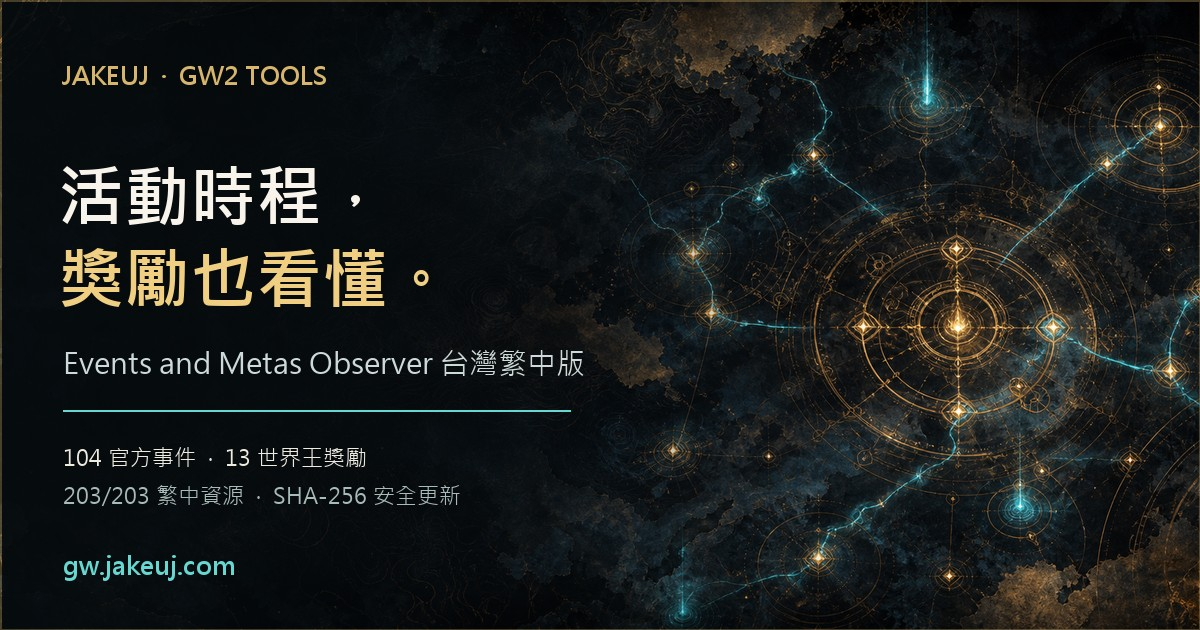
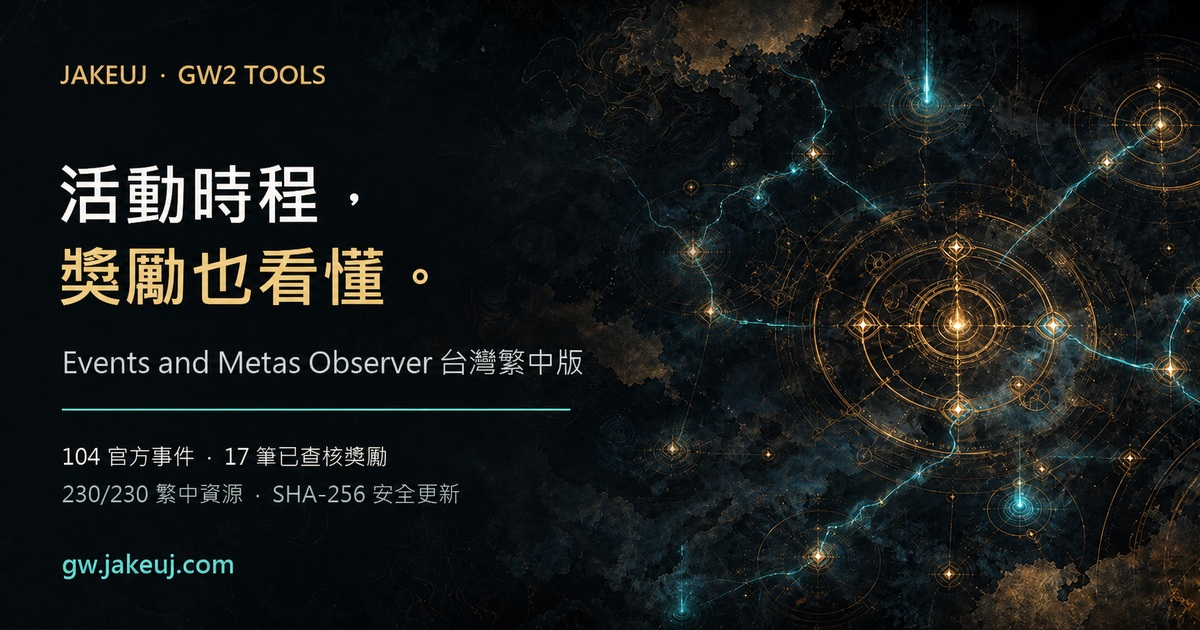
docs(events): update site for fork.6

diff --git a/docs/index.html b/docs/index.html
@@ -3,7 +3,7 @@
   <head>
     <meta charset="utf-8">
     <meta name="viewport" content="width=device-width, initial-scale=1">
-    <meta name="description" content="jakeuj 維護的 GW2 Events and Metas Observer 台灣繁中版：官方 Wiki 活動時程、雙語事件名稱、13 隻世界王獎勵、離線備援與 SHA-256 安全自動更新。">
+    <meta name="description" content="jakeuj 維護的 GW2 Events and Metas Observer 台灣繁中版：官方 Wiki 活動時程、雙語事件名稱、17 筆已查核獎勵、自訂聊天訊息、離線備援與 SHA-256 安全自動更新。">
     <meta name="author" content="jakeuj">
     <meta name="robots" content="index,follow,max-image-preview:large">
     <meta name="theme-color" content="#090e11">
@@ -15,15 +15,15 @@
     <meta property="og:type" content="website">
     <meta property="og:site_name" content="jakeuj GW2 Tools">
     <meta property="og:title" content="活動時程，獎勵也看懂｜GW2 Events 繁中版">
-    <meta property="og:description" content="不只是翻譯：官方 Wiki 資料管線、離線備援、世界王獎勵與 SHA-256 安全更新。">
+    <meta property="og:description" content="不只是翻譯：官方 Wiki 資料管線、17 筆已查核獎勵、自訂聊天訊息、離線備援與 SHA-256 安全更新。">
     <meta property="og:url" content="https://gw.jakeuj.com/">
     <meta property="og:image" content="https://gw.jakeuj.com/assets/jakeuj-gw2-tools-og.jpg">
     <meta property="og:image:width" content="1200">
     <meta property="og:image:height" content="630">
-    <meta property="og:image:alt" content="jakeuj GW2 Tools：活動時程，獎勵也看懂；104 個官方事件、13 隻世界王獎勵與 203 項繁中資源">
+    <meta property="og:image:alt" content="jakeuj GW2 Tools：活動時程，獎勵也看懂；104 個官方事件、17 筆已查核獎勵與 230 項繁中資源">
     <meta name="twitter:card" content="summary_large_image">
     <meta name="twitter:title" content="活動時程，獎勵也看懂｜GW2 Events 繁中版">
-    <meta name="twitter:description" content="jakeuj 維護的 Events and Metas Observer 台灣繁中版與工程案例。">
+    <meta name="twitter:description" content="Events and Metas Observer 台灣繁中版：17 筆已查核獎勵、自訂聊天訊息與安全更新。">
     <meta name="twitter:image" content="https://gw.jakeuj.com/assets/jakeuj-gw2-tools-og.jpg">
     <title>GW2 Events and Metas Observer 繁中版｜jakeuj GW2 Tools</title>
     <link rel="stylesheet" href="./styles.css">
@@ -36,8 +36,8 @@
             "name": "Events and Metas Observer 台灣繁中版",
             "applicationCategory": "GameApplication",
             "operatingSystem": "Windows",
-            "softwareVersion": "1.0.9-fork.5",
-            "description": "Guild Wars 2 的 Blish HUD 活動時程與通知模組，提供繁中介面、雙語事件名稱、世界王獎勵與安全自動更新。",
+            "softwareVersion": "1.0.9-fork.6",
+            "description": "Guild Wars 2 的 Blish HUD 活動時程與通知模組，提供繁中介面、雙語事件名稱、17 筆已查核獎勵、自訂聊天訊息與安全自動更新。",
             "downloadUrl": "https://github.com/jakeuj/Community-Module-Pack/releases/latest/download/Events.Module.bhm",
             "isAccessibleForFree": true,
             "author": { "@type": "Person", "name": "jakeuj", "url": "https://github.com/jakeuj" }
@@ -84,16 +84,16 @@
           <div class="hero-copy reveal">
             <p class="eyebrow">Guild Wars 2 · Blish HUD Module</p>
             <div class="hero-meta">
-              <span class="status-pill" id="release-status" data-fallback-version="1.0.9-fork.5">
+              <span class="status-pill" id="release-status" data-fallback-version="1.0.9-fork.6">
                 <i aria-hidden="true"></i>
-                <span data-release-version>v1.0.9-fork.5</span>
+                <span data-release-version>v1.0.9-fork.6</span>
                 <span class="status-copy">穩定版自動更新</span>
               </span>
               <a class="maker-link" href="https://github.com/jakeuj">Built &amp; maintained by <strong>jakeuj</strong></a>
             </div>
             <h1 id="page-title">活動時程，<br><em>獎勵也看懂。</em></h1>
             <p class="lead">
-              不只是翻譯。繁中與官方英文名稱、13 隻核心世界王獎勵、官方 Wiki 即時時程、離線備援與安全更新，都整理在同一個可靠的 Blish HUD 模組裡。
+              不只是翻譯。繁中與官方英文名稱、17 筆已查核事件獎勵、自訂聊天訊息、官方 Wiki 即時時程、離線備援與安全更新，都整理在同一個可靠的 Blish HUD 模組裡。
             </p>
             <div class="actions" aria-label="主要操作">
               <a class="button primary" href="https://github.com/jakeuj/Community-Module-Pack/releases/latest/download/Events.Module.bhm">下載最新版 <span aria-hidden="true">↓</span></a>
@@ -102,10 +102,10 @@
             </div>
             <p class="download-note">Windows · 需要支援中文的 Blish HUD 1.0.0 以上 · 免費開源</p>
             <dl class="quick-stats" aria-label="已驗證的專案數據">
-              <div><dt><span data-count="203" data-suffix="/203">203/203</span></dt><dd>繁中資源</dd></div>
+              <div><dt><span data-count="230" data-suffix="/230">230/230</span></dt><dd>繁中資源</dd></div>
               <div><dt><span data-count="104">104</span></dt><dd>官方事件</dd></div>
-              <div><dt><span data-count="13">13</span></dt><dd>世界王獎勵</dd></div>
-              <div><dt><span data-count="5">5</span></dt><dd>Fork 迭代</dd></div>
+              <div><dt><span data-count="17">17</span></dt><dd>已查核獎勵</dd></div>
+              <div><dt><span data-count="6">6</span></dt><dd>Fork 迭代</dd></div>
             </dl>
           </div>
 
@@ -132,7 +132,7 @@
               </picture>
               <figcaption>
                 <span><strong>實機畫面</strong> · 雙語名稱與世界王獎勵</span>
-                <span class="verified-badge"><i aria-hidden="true"></i>13 筆已查核</span>
+                <span class="verified-badge"><i aria-hidden="true"></i>17 筆已查核</span>
               </figcaption>
             </figure>
           </div>
@@ -172,7 +172,7 @@
 
         <div class="evidence-grid">
           <a class="evidence-card spotlight reveal" href="https://github.com/jakeuj/Community-Module-Pack/blob/master/Events%20Module/Properties/Resources.zh.resx">
-            <span>203 / 203</span><strong>台灣繁中資源完整覆蓋</strong><small>查看 Resources.zh.resx ↗</small>
+            <span>230 / 230</span><strong>台灣繁中資源完整覆蓋</strong><small>查看 Resources.zh.resx ↗</small>
           </a>
           <a class="evidence-card spotlight reveal" data-reveal-delay="70" href="https://github.com/jakeuj/Community-Module-Pack/tree/master/Events%20Module/Tests">
             <span>Parser + Live Audit</span><strong>官方事件、圖示與獎勵測試</strong><small>查看 Tests ↗</small>
@@ -190,10 +190,10 @@
         <div class="shell">
           <div class="section-heading compact reveal">
             <p class="eyebrow">Fork Evolution · 2026</p>
-            <h2 id="evolution-title">五次迭代，把社群翻譯做成可維護的產品。</h2>
+            <h2 id="evolution-title">六次迭代，把社群翻譯做成可維護的產品。</h2>
             <p>每一步都有對應的 Release 與原始碼，不用模糊的「最佳化」包裝成果。</p>
           </div>
-          <ol class="fork-timeline" aria-label="fork.1 到 fork.5 的版本演進">
+          <ol class="fork-timeline" aria-label="fork.1 到 fork.6 的版本演進">
             <li class="timeline-item reveal">
               <span class="timeline-version">fork.1</span><span class="timeline-dot" aria-hidden="true"></span>
               <div><p class="timeline-kicker">Foundation</p><h3>繁中術語與發布自動化</h3><p>建立台灣繁中交付流程、fork 版號規則與自動產生後再清理的 Release notes。</p></div>
@@ -214,6 +214,10 @@
               <span class="timeline-version">fork.5</span><span class="timeline-dot" aria-hidden="true"></span>
               <div><p class="timeline-kicker">Safe Delivery</p><h3>SHA-256 安全自動更新</h3><p>只接受格式正確的穩定版、可信 GitHub 資產與摘要；成功安裝後才保留設定並重新啟動。</p></div>
             </li>
+            <li class="timeline-item reveal">
+              <span class="timeline-version">fork.6</span><span class="timeline-dot" aria-hidden="true"></span>
+              <div><p class="timeline-kicker">Player Communication</p><h3>獎勵、聊天與 Wiki 一次補齊</h3><p>加入 4 個大型公共活動的已查核獎勵與自訂聊天訊息，並修復含冒號匯聚頁面的 Wiki 按鈕。</p></div>
+            </li>
           </ol>
         </div>
       </section>
@@ -226,14 +230,15 @@
         </div>
         <div class="feature-grid">
           <article class="feature-card spotlight reveal"><span>01</span><h3>繁中＋官方英文</h3><p>卡片以繁中為主、英文原名為輔；搜尋同時支援繁中、英文與既有別名。</p></article>
-          <article class="feature-card spotlight reveal" data-reveal-delay="80"><span>02</span><h3>世界王獎勵資訊</h3><p>13 隻核心世界王顯示保底裝備、龍晶礦，以及帳號／角色每日限制。</p></article>
+          <article class="feature-card spotlight reveal" data-reveal-delay="80"><span>02</span><h3>17 筆已查核獎勵</h3><p>涵蓋 13 隻核心世界王與 4 個大型公共活動，標示保底裝備、龍晶礦、固定金幣與每日限制。</p></article>
           <article class="feature-card spotlight reveal" data-reveal-delay="160"><span>03</span><h3>官方時程與離線備援</h3><p>官方資料成功才更新；無法連線時依序使用成功快取與內建資料。</p></article>
+          <article class="feature-card spotlight reveal" data-reveal-delay="240"><span>04</span><h3>自訂聊天訊息</h3><p>以安全模板組合傳送點、雙語事件、分類、時間與已查核獎勵；格式失效時自動退回原始座標。</p></article>
         </div>
       </section>
 
       <section class="section update-section shell" aria-labelledby="update-title">
         <div class="update-copy reveal">
-          <p class="eyebrow">fork.5 · Verified Update</p>
+          <p class="eyebrow">fork.5+ · Verified Update</p>
           <h2 id="update-title">手動更新這一次，<br><em>之後穩定版安全跟上。</em></h2>
           <p>每次載入在背景檢查最新穩定版。Release tag、資產名稱、可信網址與 SHA-256 全部通過後才會安裝；任何失敗都繼續使用原版本。</p>
           <ul class="check-list">
@@ -241,7 +246,7 @@
             <li><span aria-hidden="true">✓</span><div><strong>只跟隨正式穩定版</strong><p>測試版、預發行版、格式錯誤與降版都會拒絕。</p></div></li>
             <li><span aria-hidden="true">✓</span><div><strong>驗證成功才重新啟動</strong><p>保留模組啟用狀態，下載或驗證失敗時不動目前檔案。</p></div></li>
           </ul>
-          <div class="notice"><strong>第一次仍需手動安裝 fork.5</strong><p>更舊版本尚未內建更新器；安裝含更新器的版本後，後續合規穩定版才會自動跟上。</p></div>
+          <div class="notice"><strong>fork.5 以前的版本需手動安裝最新版</strong><p>fork.5 已能安全自動更新到 fork.6；更舊版本手動安裝 fork.6 一次後，後續合規穩定版即可自動跟上。</p></div>
         </div>
         <figure class="update-shot tilt-card reveal" data-tilt data-reveal-delay="120">
           <picture>
@@ -313,7 +318,7 @@
 
       <section class="release-cta shell reveal" aria-labelledby="download-title">
         <div class="release-sigil" aria-hidden="true"><span></span></div>
-        <div><p class="eyebrow">Stable Release</p><h2 id="download-title"><span data-release-version>v1.0.9-fork.5</span> 已發布</h2><p>這是第一個含安全更新器的版本；手動安裝一次後，後續穩定版即可自動跟上。</p></div>
+        <div><p class="eyebrow">Stable Release</p><h2 id="download-title"><span data-release-version>v1.0.9-fork.6</span> 已發布</h2><p>新增自訂聊天訊息、17 筆已查核獎勵，並修復兩個匯聚事件的 Wiki 按鈕。</p></div>
         <div class="release-actions"><a class="button primary" href="https://github.com/jakeuj/Community-Module-Pack/releases/latest/download/Events.Module.bhm">下載 Events.Module.bhm</a><a class="button secondary" href="https://github.com/jakeuj/Community-Module-Pack/releases/latest">查看版本資訊</a></div>
       </section>
     </main>

diff --git a/docs/styles.css b/docs/styles.css
@@ -1133,7 +1133,7 @@ code {
 }
 
 .feature-grid {
-  grid-template-columns: repeat(3, minmax(0, 1fr));
+  grid-template-columns: repeat(4, minmax(0, 1fr));
 }
 
 .feature-card {